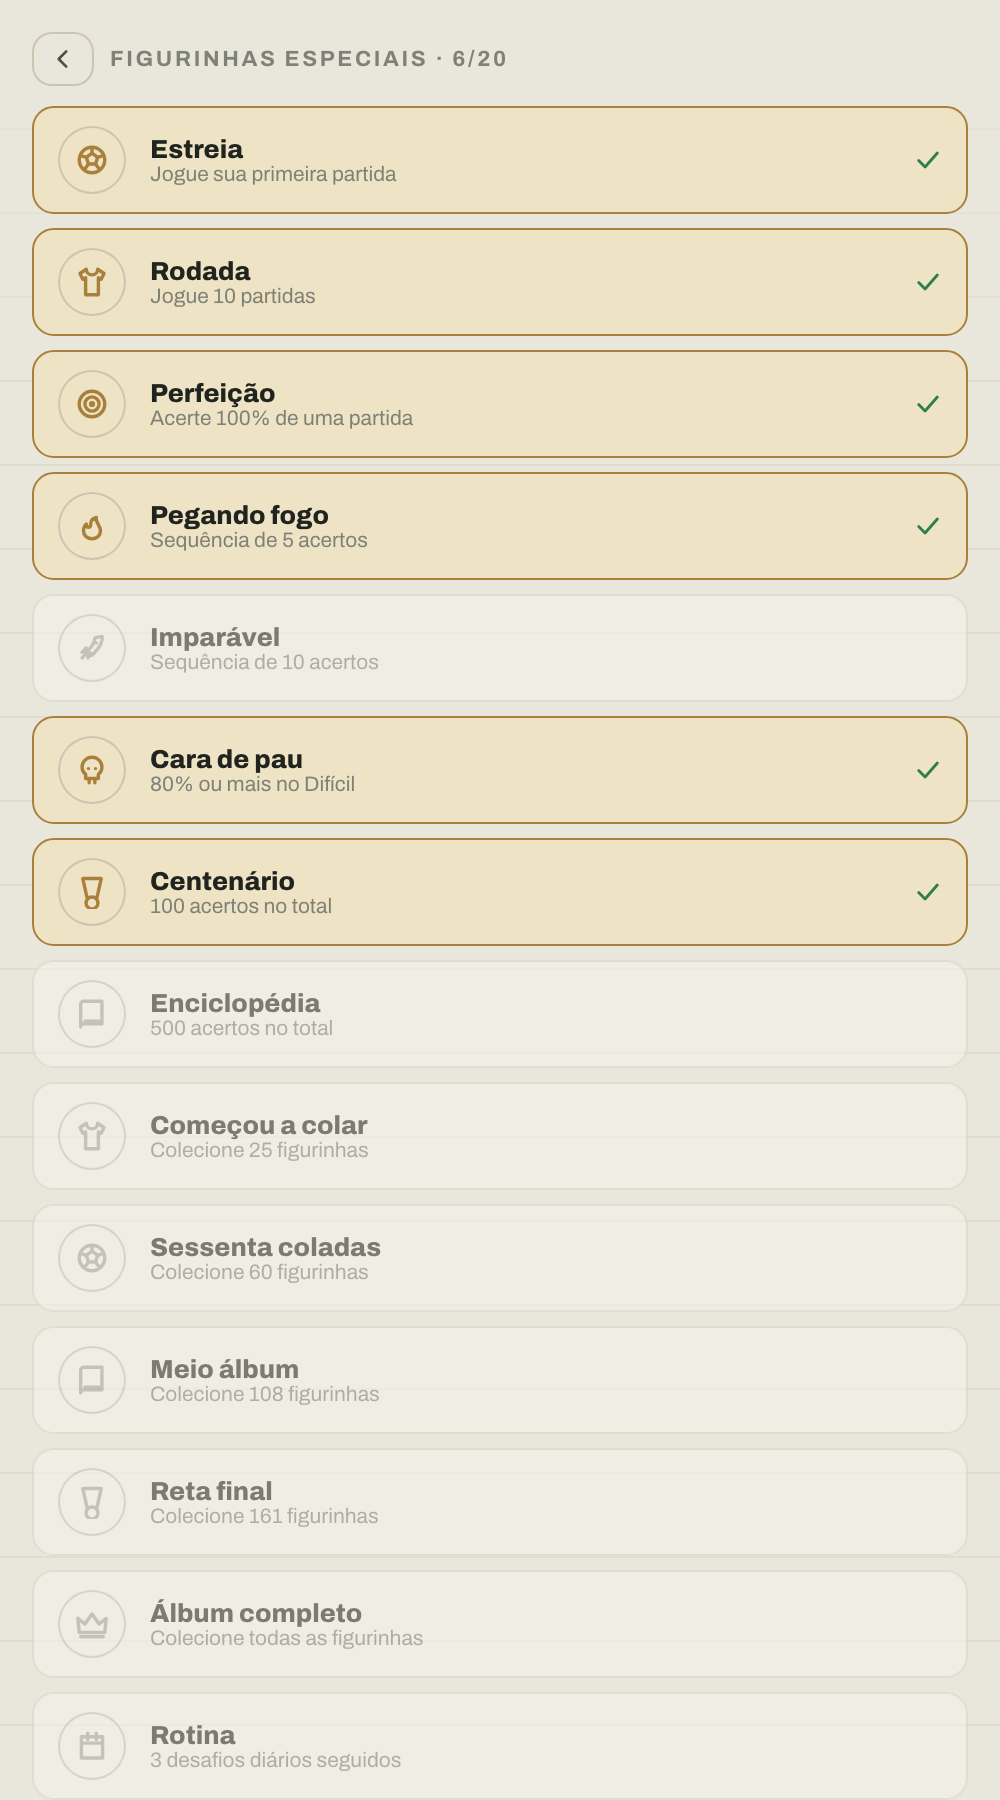
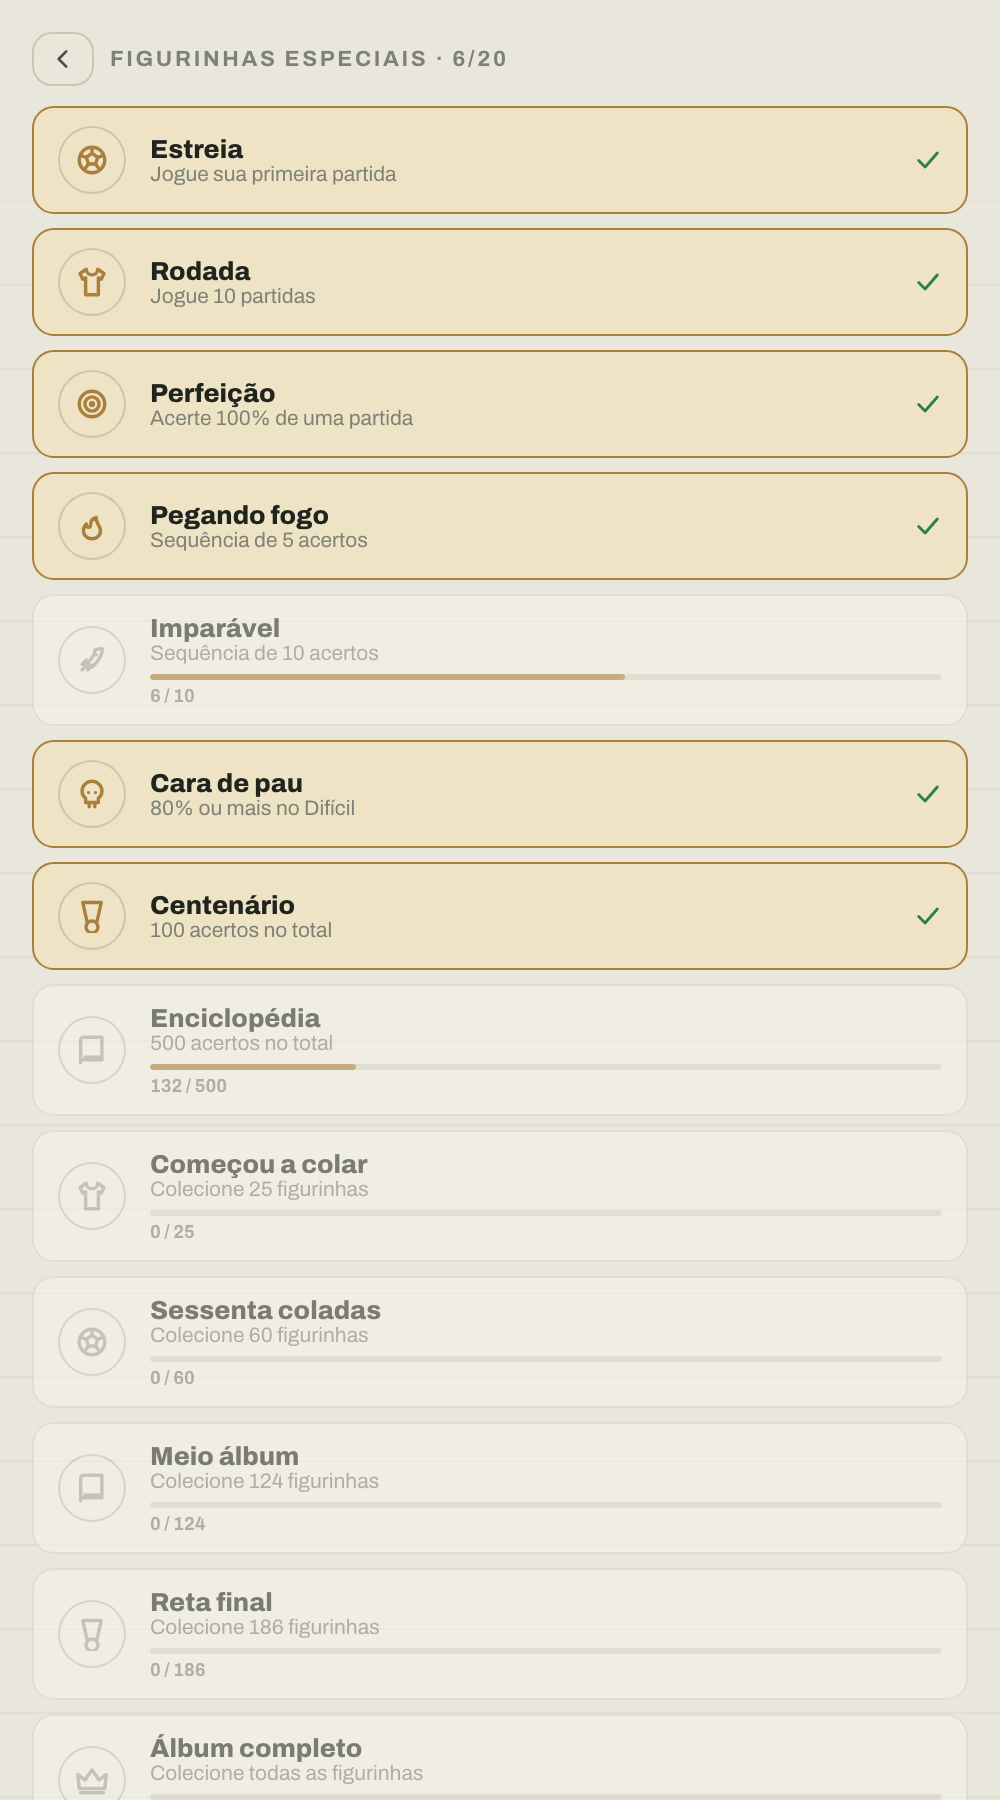
Show progress on the things you are working towards
A locked medal said "Colecione 108 figurinhas" and nothing else. How far
along you are is the part worth knowing — "58 / 108" with a bar is a
reason to play one more round; the target alone is a wall. Thirteen of
the twenty medals can count, and now do. The other seven are genuinely
all-or-nothing — Perfeição, Milionário — and correctly show nothing.

Each page of the album gets a ring beside its count. "24/103" is a fact;
the ring is what you glance at while scrolling and feel. It is a conic
gradient with the page's own colour, so it costs nothing to draw and
animates when the album grows.

Claude-Session: https://claude.ai/code/session_01AeDN92YGYdCLcJmAVMuuVY

diff --git a/index.html b/index.html
@@ -679,6 +679,14 @@
     }
     @media (prefers-reduced-motion: reduce) { .settle-dots i { opacity: .7; } }
 
+    /* how far along a locked medal is */
+    .medal-prog { height: 3px; background: var(--rule-2); border-radius: 2px;
+      overflow: hidden; margin-top: 5px; }
+    .medal-prog > i { display: block; height: 100%; background: var(--brass);
+      border-radius: 2px; transition: width .9s cubic-bezier(.2,.8,.3,1); }
+    .medal-num { font-size: 9px; font-weight: 700; color: var(--ink-3);
+      margin-top: 3px; font-variant-numeric: tabular-nums; }
+
     /* ── The stickers a run earned, shown at the end ── */
     .newfigs { width: 100%; max-width: 330px; display: flex; flex-direction: column;
       align-items: center; gap: 7px; margin-top: 4px; padding: 11px 10px 13px;
@@ -851,6 +859,19 @@
        A real sticker printed the player's details on the back, and reading
        them was half the point of peeling it off the sheet. The album held
        all of this data and never showed it. Only collected cards turn. */
+    /* Each page of the album says how full it is. The count alone ("22/85") is
+       a fact; the ring is the thing you glance at while scrolling and feel. */
+    .alb-sec-end { display: flex; align-items: center; gap: 8px; margin-left: auto; flex: none; }
+    .alb-ring { position: relative; width: 30px; height: 30px; border-radius: 50%;
+      flex: none; display: flex; align-items: center; justify-content: center;
+      background: conic-gradient(var(--brass) calc(var(--p) * 1%), var(--rule-2) 0);
+      transition: background .9s cubic-bezier(.2,.8,.3,1); }
+    .alb-ring::before { content: ''; position: absolute; inset: 3px;
+      border-radius: 50%; background: var(--stock); }
+    .alb-ring-n { position: relative; font-size: 8.5px; font-weight: 800;
+      color: var(--ink-2); font-variant-numeric: tabular-nums; line-height: 1; }
+    .alb-ring-n i { font-style: normal; font-size: 6px; opacity: .65; }
+
     .alb-hint { display: flex; align-items: center; gap: 5px; font-size: 10px;
       color: var(--ink-3); margin: 1px 0 2px; }
     .alb-turn { cursor: pointer; perspective: 620px; -webkit-perspective: 620px; }
@@ -4464,44 +4485,44 @@ const MEDALS = [
   { id:'first',  ic:'ball', n:'Estreia',        d:'Jogue sua primeira partida',
     t: st => st.games >= 1 },
   { id:'ten',    ic:'shirt', n:'Rodada',         d:'Jogue 10 partidas',
-    t: st => st.games >= 10 },
+    t: st => st.games >= 10, p: st => [st.games || 0, 10] },
   { id:'perfect',ic:'target', n:'Perfeição',      d:'Acerte 100% de uma partida',
     t: st => (st.perfect || 0) >= 1 },
   { id:'streak5',ic:'flame', n:'Pegando fogo',   d:'Sequência de 5 acertos',
-    t: st => (st.bestStreak || 0) >= 5 },
+    t: st => (st.bestStreak || 0) >= 5, p: st => [st.bestStreak || 0, 5] },
   { id:'streak10',ic:'rocket', n:'Imparável',     d:'Sequência de 10 acertos',
-    t: st => (st.bestStreak || 0) >= 10 },
+    t: st => (st.bestStreak || 0) >= 10, p: st => [st.bestStreak || 0, 10] },
   { id:'hard',   ic:'skull', n:'Cara de pau',    d:'80% ou mais no Difícil',
     t: st => (st.hard80 || 0) >= 1 },
   { id:'c100',   ic:'medal', n:'Centenário',     d:'100 acertos no total',
-    t: st => (st.correct || 0) >= 100 },
+    t: st => (st.correct || 0) >= 100, p: st => [st.correct || 0, 100] },
   { id:'c500',   ic:'book', n:'Enciclopédia',   d:'500 acertos no total',
-    t: st => (st.correct || 0) >= 500 },
+    t: st => (st.correct || 0) >= 500, p: st => [st.correct || 0, 500] },
   /* ── the album ──
      Written as fractions of the album, not fixed counts. "Meio álbum" was 60
      stickers, which was half of a 125-player album and 28% of a 215-player
      one; the name stayed true only until the album grew. The description
      prints the real number so the target is never a mystery. */
   { id:'alb25',  ic:'shirt', n:'Começou a colar', d:'Colecione 25 figurinhas',
-    t: () => album.size >= 25 },
+    t: () => album.size >= 25, p: () => [album.size, 25] },
   /* Keeps its old threshold on purpose. These are computed live from the
      album's size, never stored, so moving 60 up to the new half would have
      taken the medal back off everyone sitting between the two. It only loses
      the name "Meio álbum", which stopped being true when the album grew. */
   { id:'alb60',  ic:'ball',  n:'Sessenta coladas', d:'Colecione 60 figurinhas',
-    t: () => album.size >= 60 },
+    t: () => album.size >= 60, p: () => [album.size, 60] },
   { id:'albHalf',ic:'book',  n:'Meio álbum',      d:`Colecione ${ALB_HALF} figurinhas`,
-    t: () => album.size >= ALB_HALF },
+    t: () => album.size >= ALB_HALF, p: () => [album.size, ALB_HALF] },
   { id:'alb3q',  ic:'medal', n:'Reta final',      d:`Colecione ${ALB_3Q} figurinhas`,
-    t: () => album.size >= ALB_3Q },
+    t: () => album.size >= ALB_3Q, p: () => [album.size, ALB_3Q] },
   { id:'albAll', ic:'crown', n:'Álbum completo',  d:'Colecione todas as figurinhas',
-    t: () => album.size >= PL.length },
+    t: () => album.size >= PL.length, p: () => [album.size, PL.length] },
   { id:'daily3', ic:'calendar', n:'Rotina',         d:'3 desafios diários seguidos',
-    t: st => LS.get('dailyStreak', 0) >= 3 },
+    t: st => LS.get('dailyStreak', 0) >= 3, p: () => [LS.get('dailyStreak', 0), 3] },
   { id:'daily7', ic:'calendar', n:'Semana cheia',   d:'7 desafios diários seguidos',
-    t: st => LS.get('dailyStreak', 0) >= 7 },
+    t: st => LS.get('dailyStreak', 0) >= 7, p: () => [LS.get('dailyStreak', 0), 7] },
   { id:'surv10', ic:'shield', n:'Sobrevivente',   d:'10 acertos seguidos no Mata-mata',
-    t: st => (st.survBest || 0) >= 10 },
+    t: st => (st.survBest || 0) >= 10, p: st => [st.survBest || 0, 10] },
   /* ── the ladder ── */
   { id:'safe1',  ic:'money', n:'Primeiro degrau', d:'Garanta R$ 5.000 no Milhão',
     t: st => (st.milBest || 0) >= 5000 },
@@ -5371,7 +5392,12 @@ function html() {
                 ? 'Rest of the world · Rest der Welt · Reste du monde'
                 : (LANGS[ctry] || '')}</span>
             </span>
-            <span class="cnt">${got}/${groups[ctry].length}</span>
+            <span class="alb-sec-end">
+              <span class="cnt">${got}/${groups[ctry].length}</span>
+              <span class="alb-ring" style="--p:${Math.round(got / groups[ctry].length * 100)}">
+                <span class="alb-ring-n">${Math.round(got / groups[ctry].length * 100)}<i>%</i></span>
+              </span>
+            </span>
           </div>
           <div class="alb-grid">
             ${groups[ctry].map(({ p, n }) => {
@@ -5406,11 +5432,24 @@ function html() {
       <div class="scroll-y" style="display:flex;flex-direction:column;gap:7px;flex:1;">
         ${MEDALS.map(m => {
           const on = got.has(m.id);
+          /* A locked medal used to show only its target. How far along you
+             are is the part worth knowing — "58 de 108" is a reason to play
+             one more round; "colecione 108 figurinhas" is a wall. */
+          let bar = '';
+          if (!on && m.p) {
+            try {
+              const [have, need] = m.p(stats);
+              const pct = Math.max(0, Math.min(100, Math.round(have / need * 100)));
+              bar = `<div class="medal-prog"><i style="width:${pct}%"></i></div>
+                     <div class="medal-num">${have} / ${need}</div>`;
+            } catch (e) { bar = ''; }
+          }
           return `<div class="medal ${on ? 'medal-on' : 'medal-off'}">
             <span class="ic">${(ICON[m.ic] || ICON.medal)('currentColor', 17)}</span>
             <div style="flex:1;min-width:0;">
               <div class="t">${m.n}</div>
               <div class="d">${m.d}</div>
+              ${bar}
             </div>
             ${on ? ICON.check('var(--good)', 14) : ''}
           </div>`;
